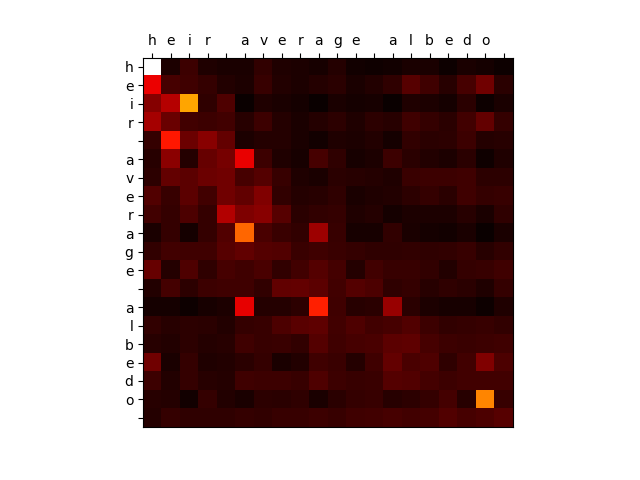
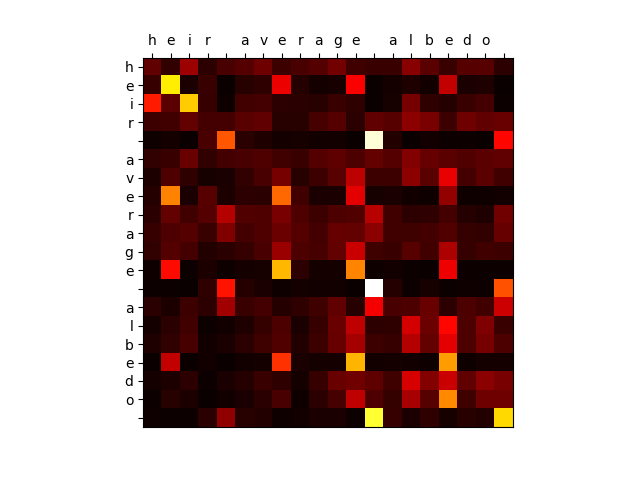
Update epochs to 10 and reset transformer to old value.

Changed region(s): [[0.2188, 0.125, 0.8125, 0.9062]]

diff --git a/transformer.py b/transformer.py
@@ -28,10 +28,38 @@ class LetterCountingExample(object):
 # Should contain your overall Transformer implementation. You will want to use Transformer layer to implement
 # a single layer of the Transformer; this Module will take the raw words as input and do all of the steps necessary
 # to return distributions over the labels (0, 1, or 2).
+# class Transformer(nn.Module):
+#     def __init__(self, vocab_size, num_positions, d_model, d_internal, num_classes, num_layers):
+#         super(Transformer, self).__init__()
+
+#         # Embedding layers
+#         self.embedding = nn.Embedding(vocab_size, d_model)
+#         self.positional_encoding = PositionalEncoding(d_model, num_positions)
+
+#         # Transformer layers
+#         self.layers = nn.ModuleList([TransformerLayer(d_model, d_internal) for _ in range(num_layers)])
+
+#         # Output layer
+#         self.output_layer = nn.Linear(d_model, num_classes)
+#         self.softmax = nn.LogSoftmax(dim=-1)
+
+#     def forward(self, indices):
+#         # Embed the input indices and add positional encodings
+#         x = self.embedding(indices)
+#         x = self.positional_encoding(x)
+
+#         # Pass through the transformer layers
+#         for layer in self.layers:
+#             x = layer(x)
+
+#         # Output layer to predict 0, 1, or 2 classes for each position
+#         output = self.output_layer(x)
+#         log_probs = self.softmax(output)
+
+#         return log_probs
 class Transformer(nn.Module):
     def __init__(self, vocab_size, num_positions, d_model, d_internal, num_classes, num_layers):
         super(Transformer, self).__init__()
-        # print("VNVN Vocab Size: " + vocab_size)
 
         # Embedding layers
         self.embedding = nn.Embedding(vocab_size, d_model)
@@ -47,7 +75,7 @@ class Transformer(nn.Module):
     def forward(self, indices):
         # Embed the input indices and add positional encodings
         x = self.embedding(indices)
-        # x = self.positional_encoding(x)
+        x = self.positional_encoding(x)
 
         # Store attention maps from each layer
         attention_maps = []
@@ -63,6 +91,49 @@ class Transformer(nn.Module):
 
         # Return log probabilities and attention maps
         return log_probs, attention_maps
+
+# Your implementation of the Transformer layer goes here. It should take vectors and return the same number of vectors
+# of the same length, applying self-attention, the feedforward layer, etc.
+# class TransformerLayer(nn.Module):
+#     def __init__(self, d_model, d_internal):
+#         super(TransformerLayer, self).__init__()
+#         # Self-attention mechanism
+#         self.query = nn.Linear(d_model, d_internal)
+#         self.key = nn.Linear(d_model, d_internal)
+#         self.value = nn.Linear(d_model, d_internal)
+#         self.softmax = nn.Softmax(dim=-1)
+
+#         # Projection layer to project attention_output back to d_model
+#         self.proj = nn.Linear(d_internal, d_model)
+
+#         # Feed-forward network
+#         self.ffn = nn.Sequential(
+#             nn.Linear(d_model, d_internal),
+#             nn.ReLU(),
+#             nn.Linear(d_internal, d_model)
+#         )
+
+#     def forward(self, input_vecs):
+#         # Self-attention mechanism
+#         queries = self.query(input_vecs)
+#         keys = self.key(input_vecs)
+#         values = self.value(input_vecs)
+
+#         # Compute attention scores
+#         attention_scores = torch.matmul(queries, keys.transpose(-2, -1)) / np.sqrt(queries.shape[-1])
+#         attention_probs = self.softmax(attention_scores)
+
+#         # Compute the attention output
+#         attention_output = torch.matmul(attention_probs, values)
+
+#         # Project attention output back to d_model for residual connection
+#         attention_output = self.proj(attention_output)
+
+#         # Add residual connection and apply feed-forward network
+#         output = attention_output + input_vecs  # Residual connection
+#         output = self.ffn(output)
+
+#         return output
 
 class TransformerLayer(nn.Module):
     def __init__(self, d_model, d_internal):
@@ -110,26 +181,58 @@ class TransformerLayer(nn.Module):
 # Implementation of positional encoding that you can use in your network
 class PositionalEncoding(nn.Module):
     def __init__(self, d_model: int, num_positions: int=20, batched=False):
+        """
+        :param d_model: dimensionality of the embedding layer to your model; since the position encodings are being
+        added to character encodings, these need to match (and will match the dimension of the subsequent Transformer
+        layer inputs/outputs)
+        :param num_positions: the number of positions that need to be encoded; the maximum sequence length this
+        module will see
+        :param batched: True if you are using batching, False otherwise
+        """
         super().__init__()
+        # Dict size
         self.emb = nn.Embedding(num_positions, d_model)
         self.batched = batched
 
     def forward(self, x):
         """
-        :param x: [batch_size, seq_len, embedding_dim] if batched
-                  [seq_len, embedding_dim] otherwise
+        :param x: If using batching, should be [batch size, seq len, embedding dim]. Otherwise, [seq len, embedding dim]
         :return: a tensor of the same size with positional embeddings added in
         """
-        seq_len = x.shape[-2]  # Second-to-last dimension is the sequence length
-        indices_to_embed = torch.arange(seq_len).type(torch.LongTensor).to(x.device)
-        
+        # Second-to-last dimension will always be sequence length
+        input_size = x.shape[-2]
+        indices_to_embed = torch.tensor(np.asarray(range(0, input_size))).type(torch.LongTensor)
         if self.batched:
-            # Add positional encoding to each sequence in the batch
-            emb = self.emb(indices_to_embed).unsqueeze(0)  # [1, seq_len, d_model]
-            return x + emb
+            # Use unsqueeze to form a [1, seq len, embedding dim] tensor -- broadcasting will ensure that this
+            # gets added correctly across the batch
+            emb_unsq = self.emb(indices_to_embed).unsqueeze(0)
+            return x + emb_unsq
         else:
-            # print("VNVN Indices: " + str(indices_to_embed.shape))
             return x + self.emb(indices_to_embed)
+
+
+# This is a skeleton for train_classifier: you can implement this however you want
+# def train_classifier(args, train, dev):
+#     model = Transformer(vocab_size=27, num_positions=20, d_model=128, d_internal=64, num_classes=3, num_layers=2)
+#     optimizer = optim.Adam(model.parameters(), lr=1e-4)
+#     loss_fcn = nn.NLLLoss()
+
+#     num_epochs = 10
+#     for epoch in range(num_epochs):
+#         model.train()
+#         total_loss = 0
+#         random.shuffle(train)
+#         for example in train:
+#             optimizer.zero_grad()
+#             log_probs = model(example.input_tensor)
+#             loss = loss_fcn(log_probs, example.output_tensor)
+#             loss.backward()
+#             optimizer.step()
+#             total_loss += loss.item()
+#         print(f"Epoch {epoch + 1}, Loss: {total_loss}")
+
+#     model.eval()
+#     return model
 
 def train_classifier(args, train, dev):
     model = Transformer(vocab_size=27, num_positions=20, d_model=128, d_internal=64, num_classes=3, num_layers=2)

diff --git a/transformer_lm.py b/transformer_lm.py
@@ -113,7 +113,7 @@ def train_lm(args, train_text, dev_text, vocab_index):
     train_data = [train_text[i:i + 20] for i in range(len(train_text) - 20)]
     train_loader = DataLoader(train_data, batch_size=32, shuffle=True)
 
-    num_epochs = 1
+    num_epochs = 10
     for epoch in range(num_epochs):
         model.train()
         total_loss = 0
